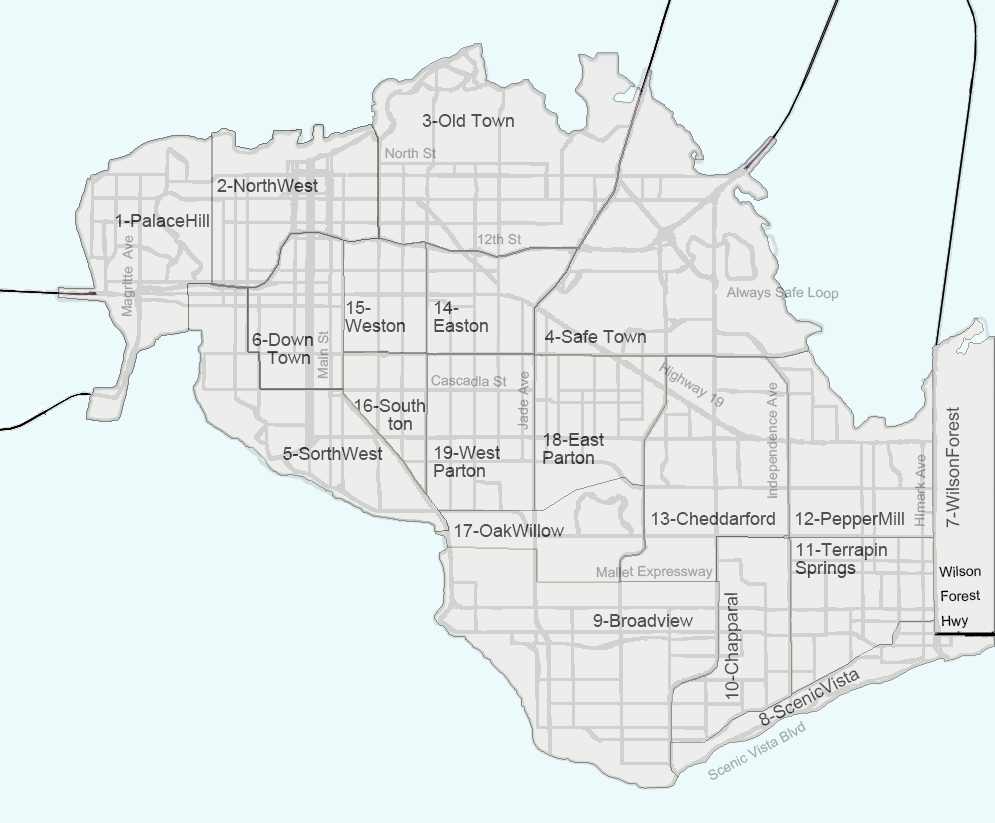
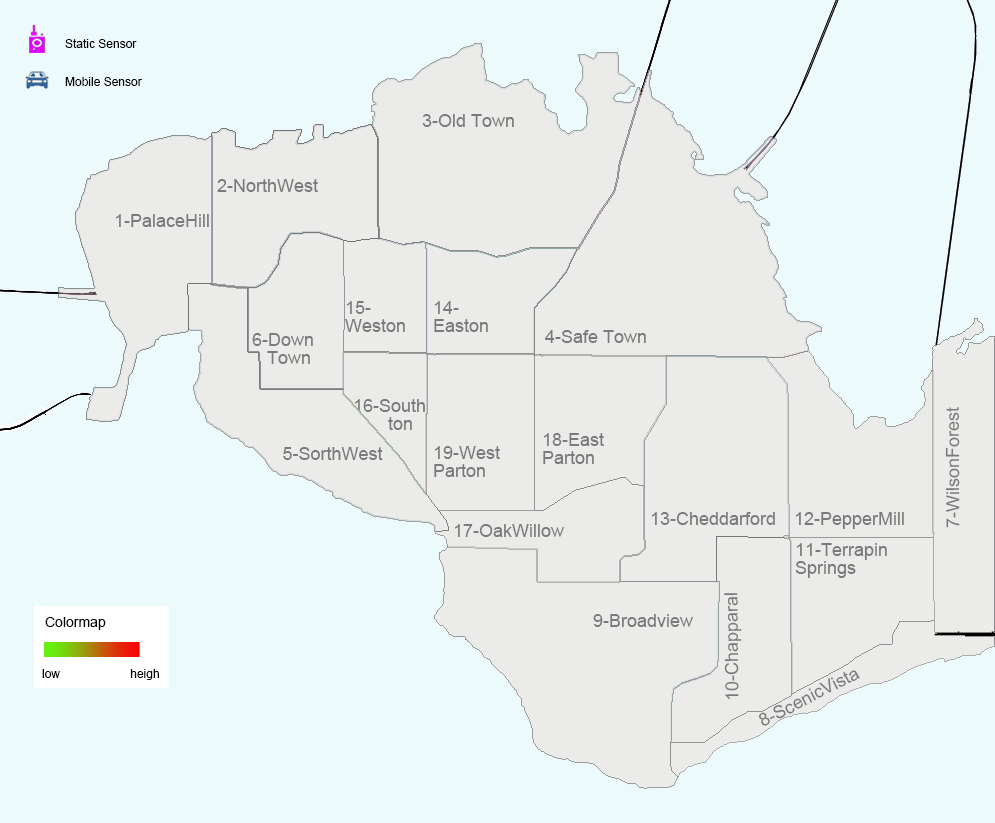
修改Map不确定性插值

diff --git a/RadiationVis/frontend/src/components/GisView.vue b/RadiationVis/frontend/src/components/GisView.vue
@@ -41,6 +41,7 @@ export default {
       himarkmap: new CityMap(),
       imageExtent: [-120.0, 0, -119.711751, 0.238585], //[left, bottom, right, top]
       map: null, 
+      image: null,
       layers: {
         imageLayer: null,
         staticPointLayer: null, //静态传感器层
@@ -98,6 +99,7 @@ export default {
 
     },
     initMap() {
+      this.image = this.mapControl.image;
       this.layers.imageLayer = new Image({
         source: new ImageStatic({
           url: require(`../assets/img/${this.mapControl.image}.png`),
@@ -366,8 +368,8 @@ export default {
         })
 
         let features = [];
-        let colorScale = d3.scaleLinear().domain([15, 80]).range(["rgb(0,255,0)", "rgb(255,0,0)"]);
-
+        let colorScale = d3.scaleLinear().domain([25, 80]).range(["rgb(0,255,0)", "rgb(255,0,0)"]);
+        console.log('mobile', d3.max(idwdata, d=>d.mean), d3.mean(idwdata,d=>d.mean), d3.min(idwdata, d=>d.mean))
         idwdata.forEach(d => {
           let polygon = new Polygon([[[d.lngEx[0], d.latEx[0]], [d.lngEx[0], d.latEx[1]], [d.lngEx[1], d.latEx[1]], [d.lngEx[1], d.latEx[0]], [d.lngEx[0], d.latEx[0]]]]);
           let polygonFeature = new Feature(polygon);
@@ -420,8 +422,8 @@ export default {
         })
 
         let features = [];
-        let colorScale = d3.scaleLinear().domain([12, 20]).range(["rgb(0,255,0)", "rgb(255,0,0)"]);
-
+        let colorScale = d3.scaleLinear().domain([14, 20]).range(["rgb(0,255,0)", "rgb(255,0,0)"]);
+        
         idwdata.forEach(d => {
           let polygon = new Polygon([[[d.lngEx[0], d.latEx[0]], [d.lngEx[0], d.latEx[1]], [d.lngEx[1], d.latEx[1]], [d.lngEx[1], d.latEx[0]], [d.lngEx[0], d.latEx[0]]]]);
           let polygonFeature = new Feature(polygon);
@@ -474,8 +476,9 @@ export default {
 
         let features = [];
         // let colorScale = d3.scaleLinear().domain([0, 200]).range(["rgb(0,255,0)", "rgb(255,0,0)"])
-        let uncertaintyScale = d3.scaleLinear().domain([0,200]).range([0,12])
-
+        let uncertaintyScale = d3.scaleLinear().domain([0,60]).range([0,10])
+         console.log('mobile,max', d3.max(idwdata, d=>d.std), d3.mean(idwdata, d=>d.std))
+        let meanstd = d3.mean(idwdata, d => d.std)
         idwdata.forEach(d => {
           let polygon = new Polygon([[[d.lngEx[0], d.latEx[0]], [d.lngEx[0], d.latEx[1]], [d.lngEx[1], d.latEx[1]], [d.lngEx[1], d.latEx[0]], [d.lngEx[0], d.latEx[0]]]]);
           let polygonFeature = new Feature(polygon);
@@ -488,10 +491,10 @@ export default {
               //   color: 'white'
               // })
             })
-            if(Math.sqrt(d.variance) > 40) {
+            if(d.std > meanstd) {
               style.stroke_ = new Stroke({
-                color: 'white',
-                width: uncertaintyScale(Math.sqrt(d.variance)),
+                color: [255,255,255,0.8],
+                width: uncertaintyScale(d.std),
               })
             }
             // if(d.flag) {
@@ -537,9 +540,10 @@ export default {
         })
 
         let features = [];
-        let radiationScale = d3.scaleLinear().domain([0, 30]).range(["rgb(0,255,0)", "rgb(255,0,0)"])
-        let uncertaintyScale = d3.scaleLinear().domain([0,20]).range([0,12])
-
+        // let radiationScale = d3.scaleLinear().domain([14, 20]).range(["rgb(0,255,0)", "rgb(255,0,0)"])
+        let uncertaintyScale = d3.scaleLinear().domain([0,10]).range([0,10])
+        console.log('static,max', d3.max(idwdata, d=>d.std), d3.mean(idwdata, d=>d.std))
+        let meanstd = d3.mean(idwdata, d => d.std)
         idwdata.forEach(d => {
           let polygon = new Polygon([[[d.lngEx[0], d.latEx[0]], [d.lngEx[0], d.latEx[1]], [d.lngEx[1], d.latEx[1]], [d.lngEx[1], d.latEx[0]], [d.lngEx[0], d.latEx[0]]]]);
           let polygonFeature = new Feature(polygon);
@@ -549,10 +553,10 @@ export default {
                 color: [0, 0, 0, 0.3]//[0, 0, 0, uncertaintyScale(Math.sqrt(d.variance))]
               }),
             })
-            if(Math.sqrt(d.variance) > 3) {
+            if(d.std > meanstd) {
               style.stroke_ = new Stroke({
                 color: 'white',
-                width: uncertaintyScale(Math.sqrt(d.variance)),
+                width: uncertaintyScale(d.std),
               })
             }
             // if(d.flag) {
@@ -599,8 +603,10 @@ export default {
         })
 
         let features = [];
-        let radiationScale = d3.scaleLinear().domain([12, 20]).range(["rgb(0,255,0)", "rgb(255,0,0)"]);
-        let uncertaintyScale = d3.scaleLinear().domain([0,20]).range([0,12])
+        let radiationScale = d3.scaleLinear().domain([14, 20]).range(["rgb(0,255,0)", "rgb(255,0,0)"]);
+        let uncertaintyScale = d3.scaleLinear().domain([0,10]).range([0,10])
+        // console.log('static,max', d3.max(idwdata, d=>d.std), d3.mean(idwdata, d=>d.std))
+        let meanstd = d3.mean(idwdata, d => d.std)
 
         idwdata.forEach(d => {
           let polygon = new Polygon([[[d.lngEx[0], d.latEx[0]], [d.lngEx[0], d.latEx[1]], [d.lngEx[1], d.latEx[1]], [d.lngEx[1], d.latEx[0]], [d.lngEx[0], d.latEx[0]]]]);
@@ -617,10 +623,10 @@ export default {
             //     width: 1
             //   })
             // } 
-            if(Math.sqrt(d.variance) > 3) {
+            if(d.std > meanstd) {
               style.stroke_ = new Stroke({
                 color: 'white',
-                width: uncertaintyScale(Math.sqrt(d.variance)),
+                width: uncertaintyScale(d.std),
               })
             }
             polygonFeature.setStyle(style);
@@ -660,8 +666,9 @@ export default {
           // })
         })
         let features = [];
-        let radiationScale = d3.scaleLinear().domain([15, 80]).range(["rgb(0,255,0)", "rgb(255,0,0)"]);
-        let uncertaintyScale = d3.scaleLinear().domain([0,200]).range([0,12])
+        let radiationScale = d3.scaleLinear().domain([25, 80]).range(["rgb(0,255,0)", "rgb(255,0,0)"]);
+        let uncertaintyScale = d3.scaleLinear().domain([0,60]).range([0,10])
+        let meanstd = d3.mean(idwdata, d => d.std);
 
         idwdata.forEach(d => {
           let polygon = new Polygon([[[d.lngEx[0], d.latEx[0]], [d.lngEx[0], d.latEx[1]], [d.lngEx[1], d.latEx[1]], [d.lngEx[1], d.latEx[0]], [d.lngEx[0], d.latEx[0]]]]);
@@ -678,10 +685,10 @@ export default {
             //     width: 1
             //   })
             // } 
-            if(Math.sqrt(d.variance) > 40) {
+            if(d.std > meanstd) {
               style.stroke_ = new Stroke({
                 color: 'white',
-                width: uncertaintyScale(Math.sqrt(d.variance)),
+                width: uncertaintyScale(d.std),
               })
             }
             polygonFeature.setStyle(style);
@@ -988,14 +995,18 @@ export default {
     },
     mapControl: {
       handler(newValue,oldValue){
-        this.map.removeLayer(this.layers.imageLayer)
-        this.layers.imageLayer = new Image({
-          source: new ImageStatic({
-            url: require(`../assets/img/${this.mapControl.image}.png`),
-            imageExtent: this.imageExtent,
+        if(this.image !== this.mapControl.image) {
+          this.map.removeLayer(this.layers.imageLayer);
+          this.layers.imageLayer = new Image({
+            source: new ImageStatic({
+              url: require(`../assets/img/${this.mapControl.image}.png`),
+              imageExtent: this.imageExtent,
+            })
           })
-        })
-        this.map.addLayer(this.layers.imageLayer)
+          this.image = this.mapControl.image;
+          this.map.addLayer(this.layers.imageLayer);
+          this.clearLayers();
+        }
         if(this.timeRange == null) {
           return;
         }
@@ -1010,10 +1021,10 @@ export default {
         }
         
         if(this.datatype.length == 2) { //radiation和uncertainty都选中时的插值
-          if(this.mapControl.si_idw_check && this.layers.staticPointLayer == null) {
+          if(this.mapControl.si_idw_check && this.layers.staticIdwLayer == null) {
             this.drawIdwRUSLayer();
           }
-          if(this.mapControl.mi_idw_check) {
+          if(this.mapControl.mi_idw_check && this.layers.mobileIdwLayer == null) {
             this.drawIdwRUMLayer();
           }
         }
@@ -1034,6 +1045,7 @@ export default {
           }
         }
         this.updateLayers();
+        
         
       },
       deep:true
@@ -1083,7 +1095,7 @@ export default {
   computed: {
     coords: function() {
       return [[[this.imageExtent[0], this.imageExtent[3]], [this.imageExtent[2], this.imageExtent[3]], [this.imageExtent[2], this.imageExtent[1]], [this.imageExtent[0], this.imageExtent[1]]]]
-    }
+    },
   },
 }
 </script>

diff --git a/RadiationVis/frontend/src/components/Treemap.vue b/RadiationVis/frontend/src/components/Treemap.vue
@@ -142,10 +142,10 @@ export default {
 
       let colorScale;// = d3.scaleLinear().domain([20, 100]).range(["rgb(0,255,0)", "rgb(255,0,0)"]);
       if(this.originData.checkedState.length == 2 || (this.originData.checkedState.length == 1 && this.originData.checkedState[0] == 'mobile')) {
-        colorScale = d3.scaleLinear().domain([20, 100]).range(["rgb(0,255,0)", "rgb(255,0,0)"]);
+        colorScale = d3.scaleLinear().domain([25, 80]).range(["rgb(0,255,0)", "rgb(255,0,0)"]);
       }
       if(this.originData.checkedState.length == 1 && this.originData.checkedState[0] == 'static') {
-        colorScale = d3.scaleLinear().domain([12, 20]).range(["rgb(0,255,0)", "rgb(255,0,0)"]);
+        colorScale = d3.scaleLinear().domain([14, 20]).range(["rgb(0,255,0)", "rgb(255,0,0)"]);
       }
 
       cell.append("rect")
@@ -230,10 +230,10 @@ export default {
       
       let colorScale;// = d3.scaleLinear().domain([20, 100]).range(["rgb(0,255,0)", "rgb(255,0,0)"]);
       if(this.originData.checkedState.length == 2 || (this.originData.checkedState.length == 1 && this.originData.checkedState[0] == 'mobile')) {
-        colorScale = d3.scaleLinear().domain([20, 100]).range(["rgb(0,255,0)", "rgb(255,0,0)"]);
+        colorScale = d3.scaleLinear().domain([25, 80]).range(["rgb(0,255,0)", "rgb(255,0,0)"]);
       }
       if(this.originData.checkedState.length == 1 && this.originData.checkedState[0] == 'static') {
-        colorScale = d3.scaleLinear().domain([12, 20]).range(["rgb(0,255,0)", "rgb(255,0,0)"]);
+        colorScale = d3.scaleLinear().domain([14, 20]).range(["rgb(0,255,0)", "rgb(255,0,0)"]);
       }
 
       cell.append("rect")
@@ -255,7 +255,7 @@ export default {
           .text(function(d) { return d.data.id.startsWith('s') ? 'SS-'+d.data.id.substring(1) :'MS-'+d.data.id.substring(1)  ; })
           .style('font-size', 12);
 
-      let stdScale = d3.scaleQuantize().domain([0, 400]).range([1,2,3,4,5]);
+      let stdScale = d3.scaleQuantize().domain([0, 60]).range([1,2,3,4,5]);
       let completenessScale = d3.scaleQuantize().domain([0, 1]).range([1,2,3,4,5])
       let accuracyScale = d3.scaleQuantize().domain([0, 7]).range([1,2,3,4,5])
       let inconsistencyScale = d3.scaleQuantize().domain([0, 27.36]).range([0,1,2,3,4,5])

diff --git a/RadiationVis/frontend/src/components/RadiationTreemap.vue b/RadiationVis/frontend/src/components/RadiationTreemap.vue
@@ -133,10 +133,10 @@ export default {
 
       let colorScale;// = d3.scaleLinear().domain([20, 100]).range(["rgb(0,255,0)", "rgb(255,0,0)"]);
       if(this.originData.checkedState.length == 2 || (this.originData.checkedState.length == 1 && this.originData.checkedState[0] == 'mobile')) {
-        colorScale = d3.scaleLinear().domain([20, 100]).range(["rgb(0,255,0)", "rgb(255,0,0)"]);
+        colorScale = d3.scaleLinear().domain([25, 80]).range(["rgb(0,255,0)", "rgb(255,0,0)"]);
       }
       if(this.originData.checkedState.length == 1 && this.originData.checkedState[0] == 'static') {
-        colorScale = d3.scaleLinear().domain([12, 20]).range(["rgb(0,255,0)", "rgb(255,0,0)"]);
+        colorScale = d3.scaleLinear().domain([14, 20]).range(["rgb(0,255,0)", "rgb(255,0,0)"]);
       }
 
       cell.append("rect")
@@ -211,10 +211,10 @@ export default {
       
       let colorScale;// = d3.scaleLinear().domain([20, 100]).range(["rgb(0,255,0)", "rgb(255,0,0)"]);
       if(this.originData.checkedState.length == 2 || (this.originData.checkedState.length == 1 && this.originData.checkedState[0] == 'mobile')) {
-        colorScale = d3.scaleLinear().domain([20, 100]).range(["rgb(0,255,0)", "rgb(255,0,0)"]);
+        colorScale = d3.scaleLinear().domain([25, 80]).range(["rgb(0,255,0)", "rgb(255,0,0)"]);
       }
       if(this.originData.checkedState.length == 1 && this.originData.checkedState[0] == 'static') {
-        colorScale = d3.scaleLinear().domain([12, 20]).range(["rgb(0,255,0)", "rgb(255,0,0)"]);
+        colorScale = d3.scaleLinear().domain([14, 20]).range(["rgb(0,255,0)", "rgb(255,0,0)"]);
       }
 
       cell.append("rect")

diff --git a/RadiationVis/frontend/src/components/UncertaintyTreemap.vue b/RadiationVis/frontend/src/components/UncertaintyTreemap.vue
@@ -216,7 +216,6 @@ export default {
             this.$root.eventHub.$emit("sensorSelected", Object.assign({}, {category: category, sid: sid}, this.originData.timeRange||this.defaultTimeRange));
           })
       
-      let colorScale = d3.scaleLinear().domain([0, 100]).range(["rgb(0,255,0)", "rgb(255,0,0)"]);
 
       cell.append("rect")
           .attr("id", function(d) { return d.data.id; })
@@ -232,7 +231,7 @@ export default {
           .text(function(d) { return d.data.id.startsWith('s') ? 'SS-'+d.data.id.substring(1) :'MS-'+d.data.id.substring(1)  ; })
           .style("font-size", 12);
 
-      let stdScale = d3.scaleQuantize().domain([0, 400]).range([1,2,3,4,5]);
+      let stdScale = d3.scaleQuantize().domain([0, 60]).range([1,2,3,4,5]);
       let completenessScale = d3.scaleQuantize().domain([0, 1]).range([1,2,3,4,5])
       let accuracyScale = d3.scaleQuantize().domain([0, 7]).range([1,2,3,4,5])
       let inconsistencyScale = d3.scaleQuantize().domain([0, 27.36]).range([0,1,2,3,4,5])

diff --git a/RadiationVis/frontend/src/App.vue b/RadiationVis/frontend/src/App.vue
@@ -280,9 +280,9 @@ export default {
         si_idw_check: false,
         mi_idw_check: false,
         inconsistency_check: false,
-        image: 'himark'
+        image: 'StHimarkMapRoad'
       },
-      mapImages: ['himark', 'poi'],
+      mapImages: ['StHimarkMapRoad', 'StHimarkMapBlank', 'StHimarkMapPoi', 'StHimarkMapHouse'],
       trendChart: null,
       sidTrendCharts: [],
       sidTrendChartStyle: null,
@@ -513,7 +513,7 @@ html, body, #app {
 .control-container .input-ele-group {
   width: 96%;
   margin-left: 2%;
-  height: 35px;
+  height: 55px;
 }
 .control-content .panup {
   margin-top: -10px;
@@ -523,7 +523,7 @@ html, body, #app {
   display: inline-block;
 }
 .control-content label {
-  line-height: 35px;
+  line-height: 55px;
   font-size: 15px;
 }
 .control-content .button {

diff --git a/RadiationVis/frontend/src/components/Openlayers.vue b/RadiationVis/frontend/src/components/Openlayers.vue
@@ -133,7 +133,7 @@ export default {
     selfAdaptionSize() {
       let width = document.querySelector("#openlayers_container").clientWidth;
       let img = document.createElement("img");
-      img.src = require('../assets/img/StHimarkMapBlank_with_road.png');
+      img.src = require('../assets/img/StHimarkMapRoad.png');
       document.querySelector("#himarkmap").style.height = width * img.height / img.width  + "px";
 
     },
@@ -146,7 +146,7 @@ export default {
         layers: [
           new Image({
             source: new ImageStatic({
-              url: require('../assets/img/StHimarkMapBlank_with_road.png'),
+              url: require('../assets/img/StHimarkMapRoad.png'),
               imageExtent: this.imageExtent,
             })
           })

diff --git a/RadiationVis/backend/dataprocessing/gridmap.py b/RadiationVis/backend/dataprocessing/gridmap.py
@@ -63,6 +63,7 @@ def idw(griddata):
 				nullPoints[i]['mean'] = points[j - m0 * i]['mean']
 				nullPoints[i]['variance'] = points[j - m0 * i]['variance']
 				nullPoints[i]['max'] = points[j - m0 * i]['max']
+				nullPoints[i]['std'] = points[j - m0 * i]['std']
 				ifFind = True
 				break
 		if ifFind:
@@ -71,15 +72,19 @@ def idw(griddata):
 		numerator = 0
 		numerator1= 0
 		numerator2= 0
+		numerator3= 0
+
 		denominator = 0
 		for j in range(m0*i, m0*i+m0):
 			numerator += points[j - m0 * i]['mean'] / (r[j] * r[j])
 			numerator1 += points[j - m0 * i]['variance'] / (r[j] * r[j])
 			numerator2 += points[j - m0 * i]['max'] / (r[j] * r[j])
+			numerator3 += points[j - m0 * i]['std'] / (r[j] * r[j])
 			denominator += 1 / (r[j] * r[j])
 		nullPoints[i]['mean'] = numerator / denominator
 		nullPoints[i]['variance'] = numerator1 / denominator
 		nullPoints[i]['max'] = numerator2 / denominator
+		nullPoints[i]['std'] = numerator3 / denominator
 	
 	return points + nullPoints
 
@@ -111,14 +116,15 @@ def add_grid_info(origin_data):
 		for j in range(n):
 			lngEx = [left + j*span, left + (j+1)*span]
 			latEx = [top - (i+1)*span, top - i*span]
-			mean, variance, maxValue = None, None, None
+			mean, variance, std, maxValue = None, None, None, None
 			flag = False
 			if len(dim2Arr[i][j]['list']) > 0:
 				mean = np.mean(dim2Arr[i][j]['list'])
 				variance = np.var(dim2Arr[i][j]['list'])
+				std = math.sqrt(variance)
 				maxValue = max(dim2Arr[i][j]['list'])
 				flag = True
-			obj = {'i':i, 'j':j, 'lat': np.mean(latEx), 'lng': np.mean(lngEx), 'latEx': latEx, 'lngEx': lngEx, 'max': maxValue, 'mean': mean, 'variance': variance, 'flag': flag}
+			obj = {'i':i, 'j':j, 'lat': np.mean(latEx), 'lng': np.mean(lngEx), 'latEx': latEx, 'lngEx': lngEx, 'max': maxValue, 'std':std, 'mean': mean, 'variance': variance, 'flag': flag}
 			griddata.append(obj)
 
 	return griddata
